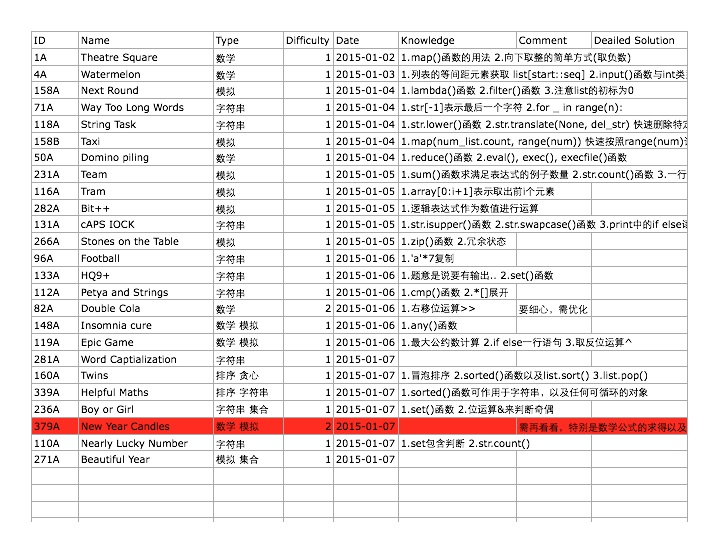
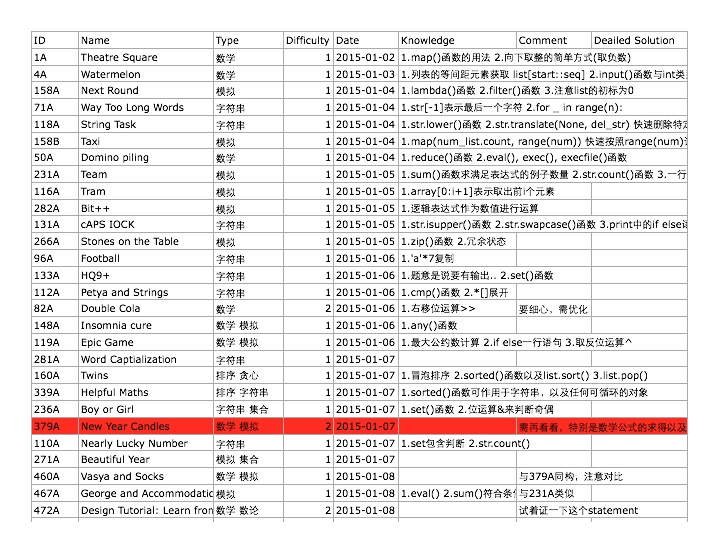
happy coding

diff --git a/58A.py b/58A.py
@@ -1,0 +1,25 @@
+# -*- coding: utf-8 -*-
+"""
+Created on Thu Jan  8 02:03:37 2015
+
+@author: liuweizhi
+"""
+
+## version 1
+import re
+print ['NO', 'YES'][re.findall('h\S*e\S*l\S*l\S*o', raw_input())!=[]]
+
+## version 2
+pattern = ['o','l','l','e','h']
+judge = False
+for w in raw_input():
+    if w==pattern[-1]:
+        pattern.pop()
+    if not pattern:
+        judge = True
+        break
+print ['NO', 'YES'][judge]
+
+## version 3
+import re
+print"YES"if re.search("h.*e.*l.*l.*o",raw_input())else"NO"

diff --git a/136A.py b/136A.py
@@ -1,0 +1,27 @@
+# -*- coding: utf-8 -*-
+"""
+Created on Thu Jan  8 02:40:39 2015
+
+@author: liuweizhi
+"""
+
+## version 1
+input()
+p = map(int, raw_input().split())
+q = [0]*len(p)
+for i in range(len(p)):
+    q[p[i]-1] = i + 1
+print ' '.join(map(str, q))
+
+## version 2
+a=input()
+b=map(int,raw_input().split())
+for i in range(a):
+    print b.index(i+1)+1,
+
+## version 3
+a=input();
+b=map(int,raw_input().split())
+c=sorted(zip(b, range(1,len(b)+1)))
+for i in range(len(c)):
+    print c[i][1],

diff --git a/472A.py b/472A.py
@@ -1,0 +1,26 @@
+# -*- coding: utf-8 -*-
+"""
+Created on Thu Jan  8 01:39:02 2015
+
+@author: liuweizhi
+"""
+
+## version 1
+def composite(x):
+    for i in range(2, x):
+        if x % i == 0:
+            return 1
+    return 0
+    
+def ans(n):
+    for i in range(3, n/2+1):
+        if composite(i) and composite(n-i):
+            return '%d %d' % (i, n-i)
+
+print ans(input())
+    
+## version 2
+n=input();a=(n%2*5+4);print a,n-a
+
+## version 3
+n=input();a=(n%2+2)**2;print a,n-a

diff --git a/460A.py b/460A.py
@@ -1,0 +1,24 @@
+# -*- coding: utf-8 -*-
+"""
+Created on Thu Jan  8 01:12:35 2015
+
+@author: liuweizhi
+"""
+
+## version 1
+n,m = map(int, raw_input().split())
+day = 0
+while n != 0:
+    n -= 1
+    day += 1
+    if day % m == 0:
+        n += 1
+print day
+
+## version 2
+n,m=map(int,raw_input().split())
+print (m*n-1)/(m-1)
+
+## version 3
+n,m=map(int,raw_input().split())
+print n+~-n/~-m

diff --git a/228A.py b/228A.py
@@ -1,0 +1,12 @@
+# -*- coding: utf-8 -*-
+"""
+Created on Thu Jan  8 01:56:09 2015
+
+@author: liuweizhi
+"""
+
+## version 1
+print 4 - len(set(map(int, raw_input().split())))
+
+## version 2
+print 4-len(set(raw_input().split()))

diff --git a/467A.py b/467A.py
@@ -1,0 +1,9 @@
+# -*- coding: utf-8 -*-
+"""
+Created on Thu Jan  8 01:27:49 2015
+
+@author: liuweizhi
+"""
+
+## version 1
+print sum(1 for _ in range(input()) if -eval(raw_input().replace(' ', '-')) >= 2)
